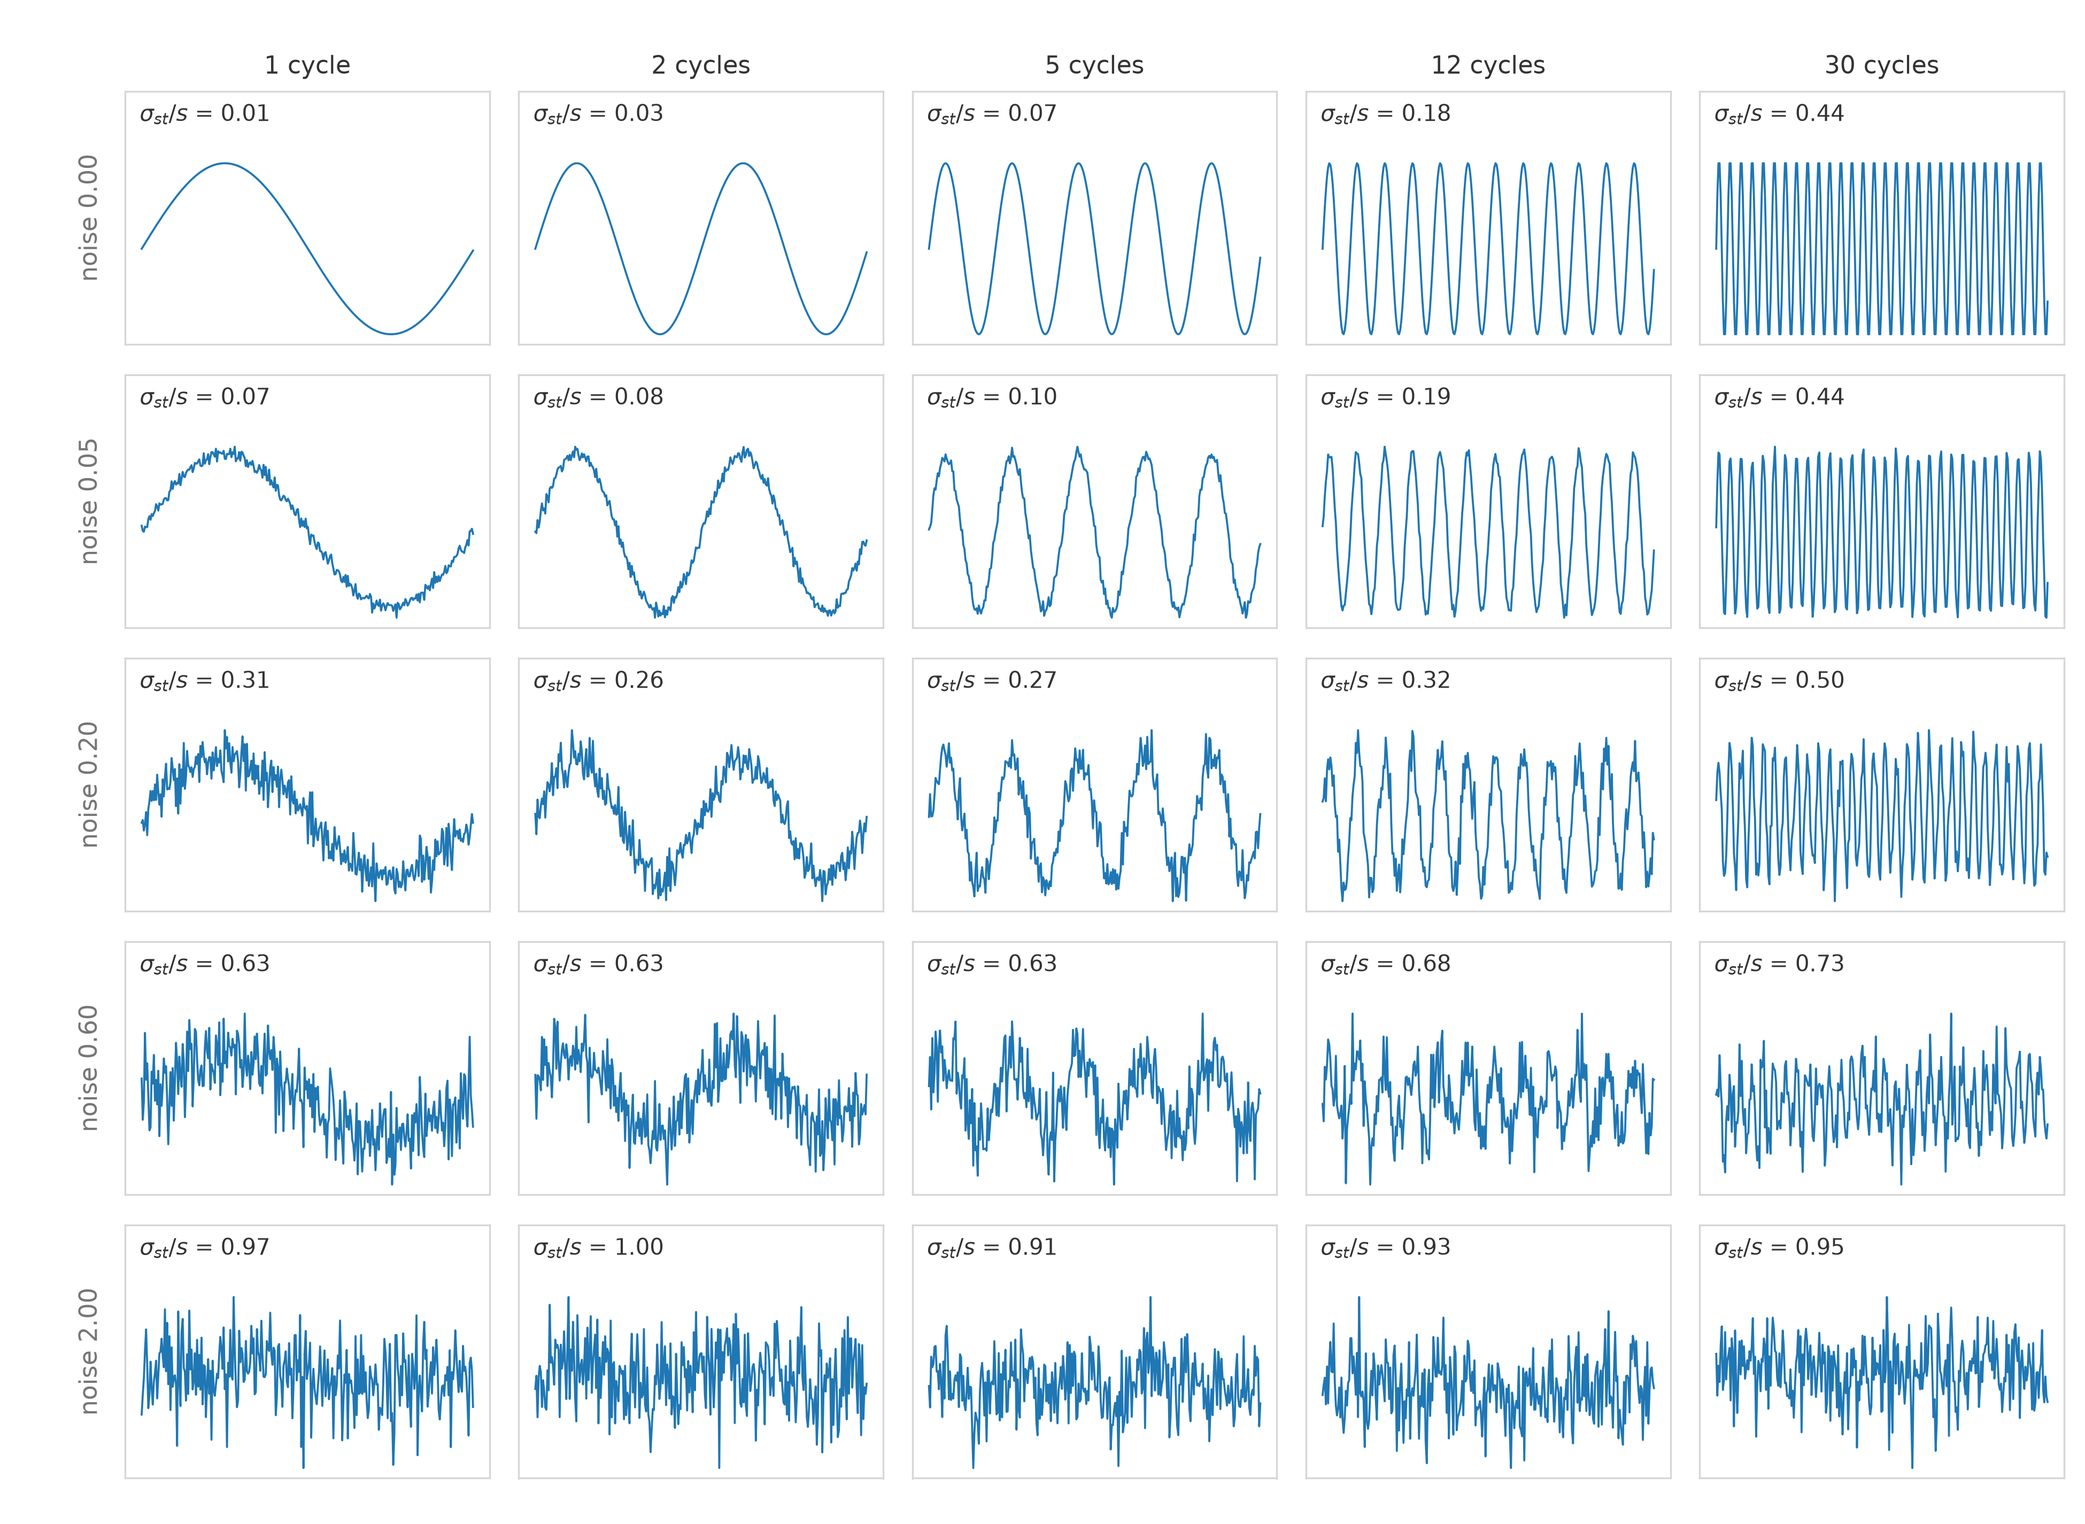
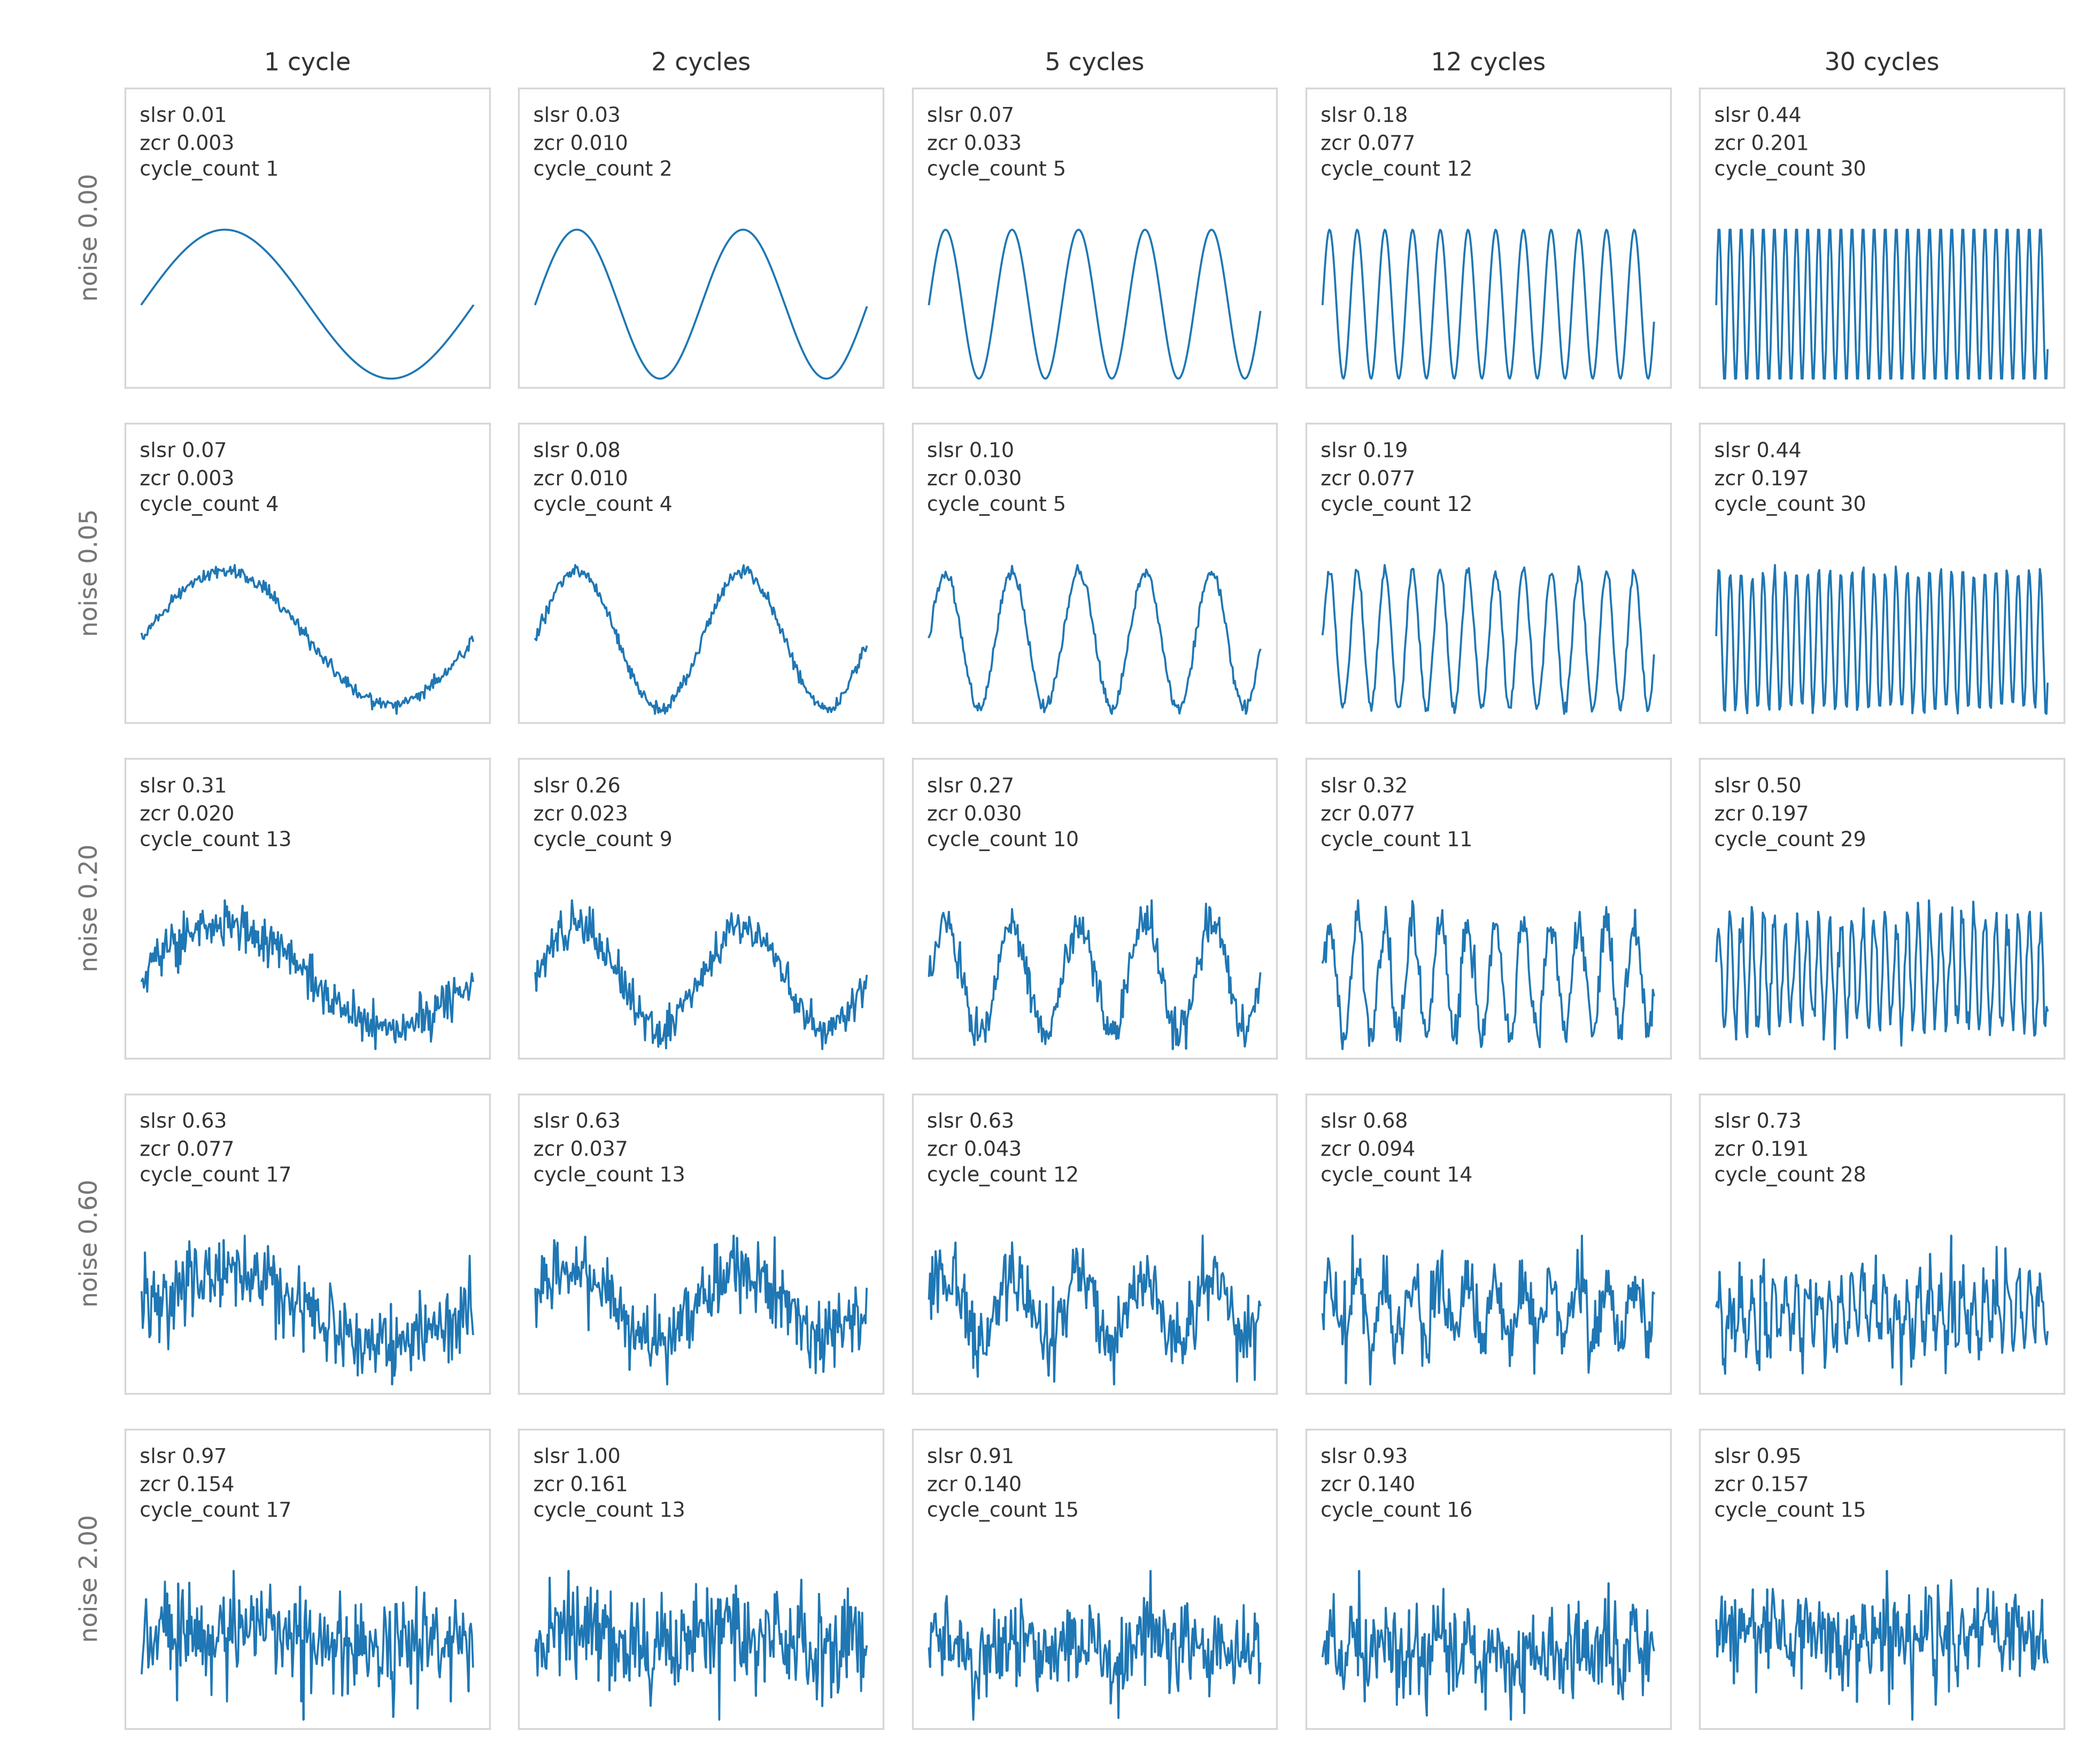
Show all three roughness features on every panel of the figure
Compute zcr with hysteresis and cycle_count with prominence alongside
slsr, annotate each panel with the three values, print the values drawn
rather than regenerating traces, and extend the roughness appendix with
the noise robustness each feature shows.

Claude-Session: https://claude.ai/code/session_01PkDuQbs7tFepwLDyzkAs6q

diff --git a/Feature-Engineering/Summary-Statistics/roughness-matrix.py b/Feature-Engineering/Summary-Statistics/roughness-matrix.py
@@ -1,11 +1,13 @@
 __author__ = 'yRocket'
-__version__ = "0.0.2.2026.8.14"  # Semantic Versioning: Major.Minor.Patch.Date(YYYY.M.D)
+__version__ = "0.1.0.2026.8.15"  # Semantic Versioning: Major.Minor.Patch.Date(YYYY.M.D)
 """
-Render a 5 x 5 matrix chart of sine traces with additive white noise and report slsr on each panel.
+Render a 5 x 5 matrix chart of sine traces with additive white noise and report the three roughness
+features on each panel.
 
-slsr = sqrt(MSSD / 2) / s, where MSSD is the mean square successive difference and s the sample
-standard deviation. The ratio equals sqrt(1 - rho_1), so it reads 1 for white noise, below 1 for a smooth
-trace and above 1 for sample-level oscillation.
+slsr        = sqrt(MSSD / 2) / s, where MSSD is the mean square successive difference and s the sample
+              standard deviation. It equals sqrt(1 - rho_1), so it reads 1 for white noise.
+zcr         = center-line crossing rate with a hysteresis dead band of 2 * sigma_st.
+cycle_count = number of peaks whose prominence reaches 3 * sigma_st.
 """
 import pathlib
 
@@ -13,6 +15,7 @@ import matplotlib
 import numpy as np
 from matplotlib import pyplot as plt
 from matplotlib.colors import TABLEAU_COLORS
+from scipy.signal import find_peaks
 
 matplotlib.use('Agg')
 
@@ -20,6 +23,8 @@ N_SAMPLE = 300                                   # samples per trace
 AMPLITUDE = 1.0                                  # sine amplitude
 CYCLE_LIST = [1, 2, 5, 12, 30]                   # sine cycles over the trace, one per column
 NOISE_LIST = [0.0, 0.05, 0.2, 0.6, 2.0]          # noise sigma relative to the amplitude, one per row
+DEAD_BAND_FACTOR = 2.0                           # hysteresis width in units of sigma_st
+PROMINENCE_FACTOR = 3.0                          # peak threshold in units of sigma_st
 SEED = 0
 DOC_STEM = 'semiconductor-equipment-trace-non-integral-summary-statistics'
 OUT_PATH = pathlib.Path(__file__).parent / f"{DOC_STEM}_fig" / 'fig1.png'
@@ -29,11 +34,35 @@ INK_COLOR = '#333333'
 MUTED_COLOR = '#767676'
 
 
-def slsr(x: np.ndarray) -> float:
-    """Short-term sigma over sample standard deviation."""
-    dx = np.diff(x)
-    mssd = np.mean(dx ** 2)
-    return float(np.sqrt(mssd / 2.0) / np.std(x, ddof=1))
+def short_term_sigma(x: np.ndarray) -> float:
+    """SPC short-term sigma, sqrt(MSSD / 2)."""
+    return float(np.sqrt(np.mean(np.diff(x) ** 2) / 2.0))
+
+
+def hysteresis_sign(x: np.ndarray, center: float = 0.0, dead_band: float = 0.0) -> np.ndarray:
+    """Sign of x - center, holding the previous state while inside the dead band."""
+    d = x - center
+    state = np.empty(len(d), dtype=int)
+    current = 1 if d[0] >= 0 else -1
+    for i, value in enumerate(d):
+        if value > dead_band / 2:
+            current = 1
+        elif value < -dead_band / 2:
+            current = -1
+        state[i] = current
+    return state
+
+
+def roughness_features(x: np.ndarray) -> dict:
+    """Return slsr, zcr and cycle_count with the thresholds derived from the short-term sigma."""
+    sigma_st = short_term_sigma(x)
+    g = hysteresis_sign(x=x, center=float(x.mean()), dead_band=DEAD_BAND_FACTOR * sigma_st)
+    peak_index, _ = find_peaks(x, prominence=PROMINENCE_FACTOR * sigma_st)
+    return {
+        'slsr': sigma_st / float(np.std(x, ddof=1)),
+        'zcr': float(np.mean(g[:-1] != g[1:])),
+        'cycle_count': len(peak_index),
+    }
 
 
 def make_trace(cycle: int = 1, noise: float = 0.0, rng: np.random.Generator = None) -> np.ndarray:
@@ -43,37 +72,43 @@ def make_trace(cycle: int = 1, noise: float = 0.0, rng: np.random.Generator = No
 
 
 rng = np.random.default_rng(SEED)
-fig, axes = plt.subplots(nrows=len(NOISE_LIST), ncols=len(CYCLE_LIST), figsize=(13.0, 9.5), sharex=True)
+fig, axes = plt.subplots(nrows=len(NOISE_LIST), ncols=len(CYCLE_LIST), figsize=(13.0, 11.0), sharex=True)
+panel_feature = {}                                    # (noise, cycle) -> features drawn on that panel
 
 for row, noise in enumerate(NOISE_LIST):
     for col, cycle in enumerate(CYCLE_LIST):
         ax = axes[row, col]
         x = make_trace(cycle=cycle, noise=noise, rng=rng)
-        ratio = slsr(x)
+        feature = roughness_features(x)
+        panel_feature[(noise, cycle)] = feature
+        label = (f"slsr {feature['slsr']:.2f}\n"
+                 f"zcr {feature['zcr']:.3f}\n"
+                 f"cycle_count {feature['cycle_count']}")
 
         ax.plot(x, color=LINE_COLOR, linewidth=0.9)
-        ax.text(0.04, 0.95, f"$\\sigma_{{st}}/s$ = {ratio:.2f}", transform=ax.transAxes,
-                ha='left', va='top', fontsize=10, color=INK_COLOR)
+        ax.text(0.04, 0.96, label, transform=ax.transAxes, ha='left', va='top',
+                fontsize=9, color=INK_COLOR, linespacing=1.4)
 
         span = x.max() - x.min()                          # headroom keeps the label clear of the trace
-        ax.set_ylim(x.min() - 0.06 * span, x.max() + 0.42 * span)
+        ax.set_ylim(x.min() - 0.06 * span, x.max() + 0.95 * span)
         ax.set_yticks([])
         ax.set_xticks([])
         for side in ('top', 'right', 'left', 'bottom'):
             ax.spines[side].set_color('#d6d6d6')
 
         if row == 0:
-            label = "1 cycle" if cycle == 1 else f"{cycle} cycles"
-            ax.set_title(label, fontsize=11, color=INK_COLOR, pad=8)
+            title = "1 cycle" if cycle == 1 else f"{cycle} cycles"
+            ax.set_title(title, fontsize=11, color=INK_COLOR, pad=8)
         if col == 0:
             ax.set_ylabel(f"noise {noise:.2f}", fontsize=11, color=MUTED_COLOR, labelpad=10)
 
-fig.subplots_adjust(left=0.06, right=0.99, top=0.94, bottom=0.03, wspace=0.08, hspace=0.12)
+fig.subplots_adjust(left=0.06, right=0.99, top=0.95, bottom=0.02, wspace=0.08, hspace=0.12)
 fig.savefig(OUT_PATH, dpi=300)
 
-print(f"{'noise':>7}" + ''.join(f"{cycle:>10}" for cycle in CYCLE_LIST))
-rng = np.random.default_rng(SEED)
-for noise in NOISE_LIST:
-    row_value = [slsr(make_trace(cycle=cycle, noise=noise, rng=rng)) for cycle in CYCLE_LIST]
-    print(f"{noise:>7.2f}" + ''.join(f"{value:>10.2f}" for value in row_value))
-print(f"saved {OUT_PATH}")
+for name in ('slsr', 'zcr', 'cycle_count'):
+    print(f"\n{name}")
+    print(f"{'noise':>7}" + ''.join(f"{cycle:>10}" for cycle in CYCLE_LIST))
+    for noise in NOISE_LIST:
+        row_value = [panel_feature[(noise, cycle)][name] for cycle in CYCLE_LIST]
+        print(f"{noise:>7.2f}" + ''.join(f"{value:>10.3f}" for value in row_value))
+print(f"\nsaved {OUT_PATH}")

diff --git a/Feature-Engineering/Summary-Statistics/semiconductor-equipment-trace-non-integral-summary-statistics.md b/Feature-Engineering/Summary-Statistics/semiconductor-equipment-trace-non-integral-summary-statistics.md
@@ -1,5 +1,5 @@
 # Semiconductor Equipment Trace Non-Integral Summary Statistics
-Rev. 20 | Created: 2026-07-29 | Updated: 2026-08-15 11:35 CDT
+Rev. 21 | Created: 2026-07-29 | Updated: 2026-08-15 11:52 CDT
 
 장비 trace 시계열을 wafer당 고정 길이 vector로 변환하는 특징 가운데, 적분 연산자를 쓰지 않는 non-integral 특징의 정의, 실패 모드, 차원 통제, 검증 규약을 정리한다.
 
@@ -264,19 +264,25 @@ Table 5. Correspondence between the lag-1 autocorrelation and SLSR
 
 ## Appendix D. Roughness
 
-`slsr` 이 파형에 따라 실제로 어떤 값을 갖는지 보이기 위해, 진폭 1인 sine에 백색잡음을 더해 가며 계산했다. Trace 길이는 300 sample이고, 열은 trace 구간에 담기는 sine의 주기 수, 행은 진폭 대비 잡음 표준편차다.
+Roughness 축의 세 특징이 파형에 따라 어떤 값을 갖는지 보이기 위해, 진폭 1인 sine에 백색잡음을 더해 가며 계산했다. Trace 길이는 300 sample이고, 열은 trace 구간에 담기는 sine의 주기 수, 행은 진폭 대비 잡음 표준편차다. `zcr` 과 `cycle_count` 의 문턱값은 §1.2의 기본값을 그대로 썼다.
 
 ![Fig 1](semiconductor-equipment-trace-non-integral-summary-statistics_fig/fig1.png)
 
-Fig 1. Sine 주파수와 잡음 수준에 따른 $\sigma_{\text{st}}/s$. 열은 왼쪽부터 1, 2, 5, 12, 30 주기이고, 행은 위에서부터 잡음 표준편차 0, 0.05, 0.20, 0.60, 2.00이다. 각 panel의 값이 그 파형에서 계산한 비다.
+Fig 1. Sine 주파수와 잡음 수준에 따른 Roughness 축 세 특징. 열은 왼쪽부터 1, 2, 5, 12, 30 주기이고, 행은 위에서부터 잡음 표준편차 0, 0.05, 0.20, 0.60, 2.00이다. 각 panel에 그 파형에서 계산한 `slsr`, `zcr`, `cycle_count` 를 적었다.
 
-읽어야 할 것은 세 가지다.
+`slsr` 에서 읽어야 할 것은 세 가지다.
 
-- **첫 행 (잡음 없음)** 에서 비가 0.01에서 0.44까지 오른다. 다섯 파형의 진폭은 모두 1로 같으므로, 이 비가 재는 것은 진폭이 아니라 주파수 구성이다. 순수 sine에서는 $\hat{\rho}_1 = \cos(2\pi f / N)$ 이므로 비가 $\sqrt{1 - \cos(2\pi f / N)}$ 이 되며, $f = 30$, $N = 300$ 을 넣으면 0.44로 실측값과 일치한다.
-- **마지막 행 (잡음 지배)** 에서는 주파수와 무관하게 비가 0.91–1.00에 모인다. 백색잡음의 이론값 1이 실제로 관측되며, 이것이 기준값을 임의로 정하지 않아도 되는 근거다.
-- **행을 따라 내려가면** 같은 주파수에서 비가 단조 증가한다. 1 주기 열은 0.01 → 0.07 → 0.31 → 0.63 → 0.97로, 잡음이 섞이는 정도를 그대로 따라간다.
+- **첫 행 (잡음 없음)** 에서 값이 0.01에서 0.44까지 오른다. 다섯 파형의 진폭은 모두 1로 같으므로, 이 비가 재는 것은 진폭이 아니라 주파수 구성이다. 순수 sine에서는 $\hat{\rho}_1 = \cos(2\pi f / N)$ 이므로 비가 $\sqrt{1 - \cos(2\pi f / N)}$ 이 되며, $f = 30$, $N = 300$ 을 넣으면 0.44로 실측값과 일치한다.
+- **마지막 행 (잡음 지배)** 에서는 주파수와 무관하게 0.91–1.00에 모인다. 백색잡음의 이론값 1이 실제로 관측되며, 이것이 기준값을 임의로 정하지 않아도 되는 근거다.
+- **행을 따라 내려가면** 같은 주파수에서 값이 단조 증가한다. 1 주기 열은 0.01 → 0.07 → 0.31 → 0.63 → 0.97로, 잡음이 섞이는 정도를 그대로 따라간다.
 
-30 주기 열도 0.44에 그친다. 비가 1을 넘으려면 sample 단위로 부호가 뒤집혀야 하는데, 300 sample에 30 주기면 주기당 10 sample이라 아직 매끄러운 축에 속하기 때문이다. 실제 trace에서 1을 넘는 값이 나오면 공정 진동이 아니라 계측계의 sample 단위 잡음을 의심하는 것이 맞다.
+30 주기 열도 0.44에 그친다. 값이 1을 넘으려면 sample 단위로 부호가 뒤집혀야 하는데, 300 sample에 30 주기면 주기당 10 sample이라 아직 매끄러운 축에 속하기 때문이다. 실제 trace에서 1을 넘는 값이 나오면 공정 진동이 아니라 계측계의 sample 단위 잡음을 의심하는 것이 맞다.
+
+**`cycle_count` 는 첫 행에서 1, 2, 5, 12, 30을 정확히 복원한다.** 문턱값을 정한 대가로 얻는 것이 이것이다 — `slsr` 의 0.44는 해석이 필요하지만 30이라는 숫자는 그대로 읽힌다. 다만 잡음이 들어오면 값이 무너진다. 1 주기 열은 1 → 4 → 13 → 17 → 17로, 잡음 봉우리를 진동으로 세기 시작한다. Prominence 문턱이 `sigma_st` 에 비례해 함께 커지는데도 막지 못한다.
+
+`zcr` 은 그 중간이다. Hysteresis가 기준선 근처의 잡음 교차를 걸러 주므로 5 주기 열이 0.033 → 0.030 → 0.030 → 0.043 → 0.140으로 잡음 0.60까지 거의 유지된다. 같은 열의 `cycle_count` 가 5 → 5 → 10 → 12 → 15로 흔들리는 것과 대비된다. 환산식도 잘 맞는다. 첫 행 30 주기에서 $(N-1)\,\text{zcr}/2 = 299 \times 0.201 / 2 = 30.0$ 이다.
+
+정리하면 잡음 강건성은 `slsr` 이 가장 높고 `cycle_count` 가 가장 낮으며, 물리적 해석은 그 반대 순서다. §1.2의 맞바꿈이 수치로 확인된다.
 
 ## Appendix E. Implementation
 
